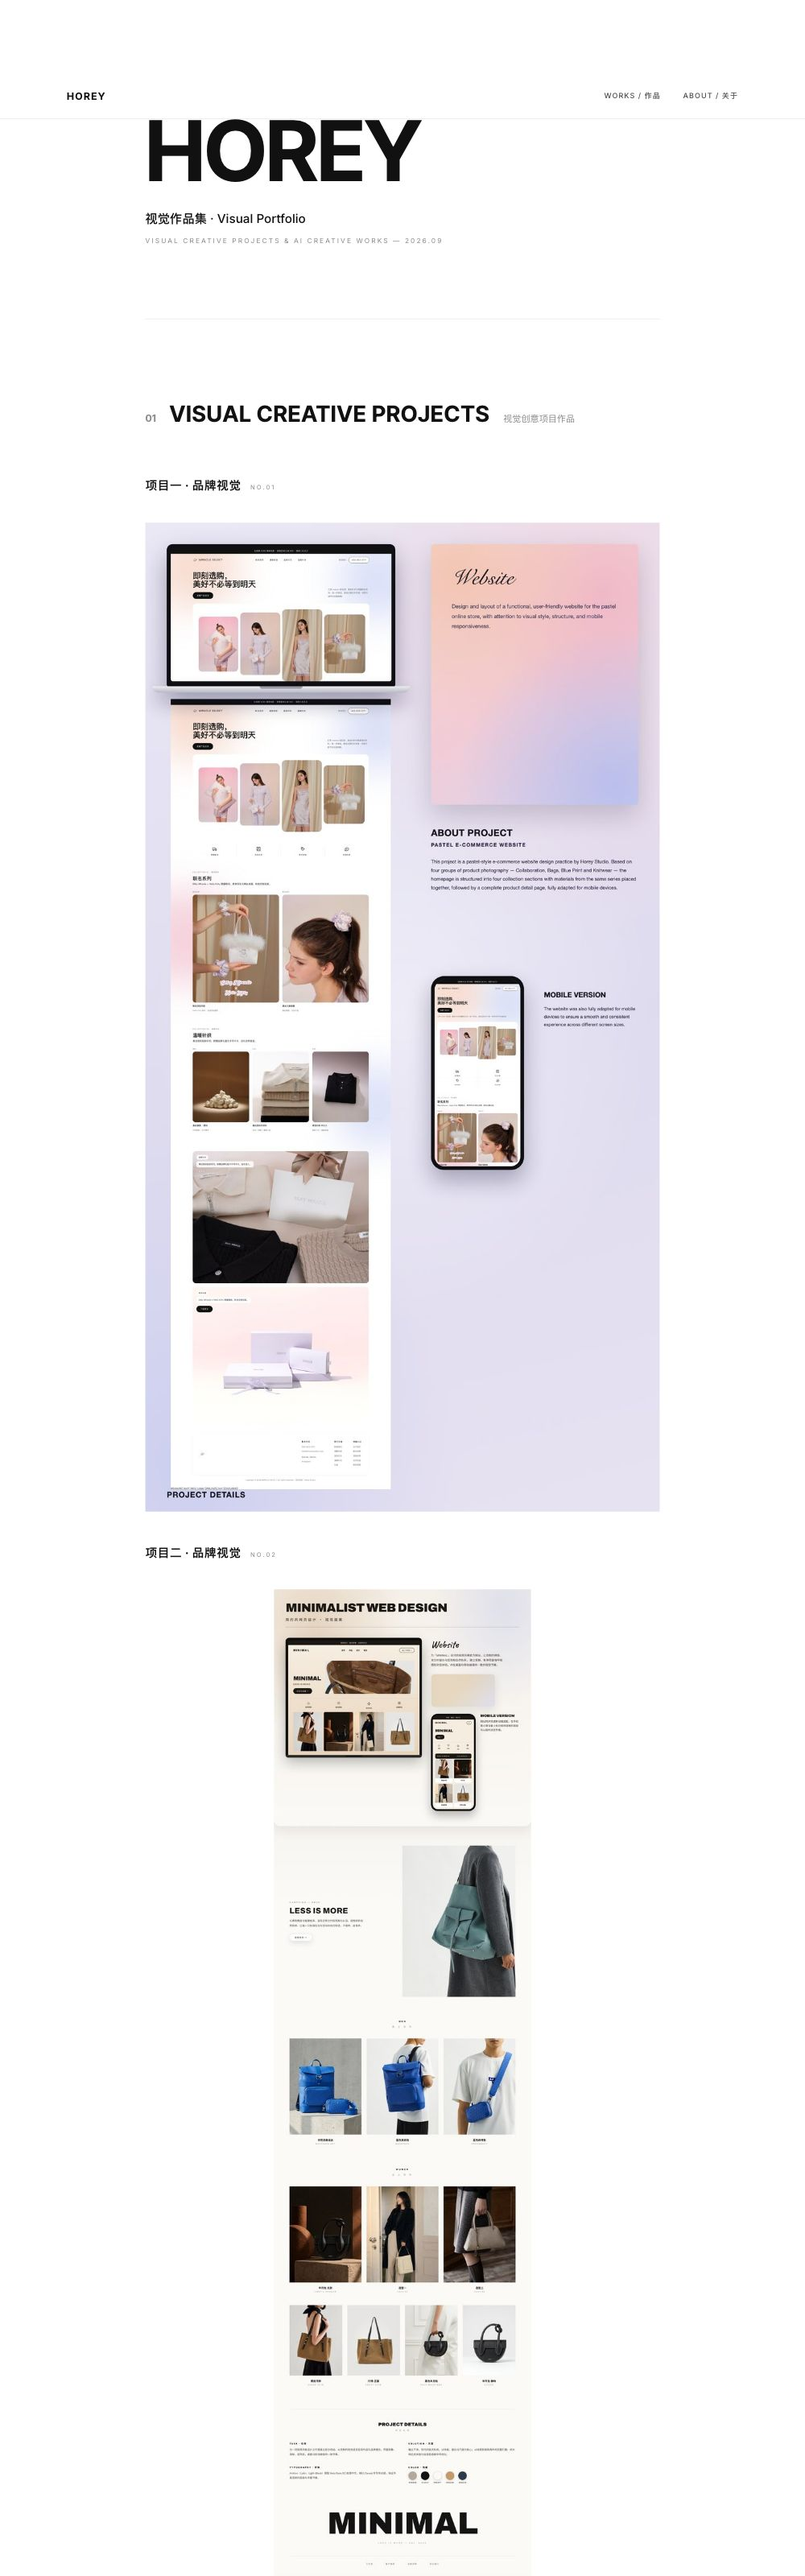
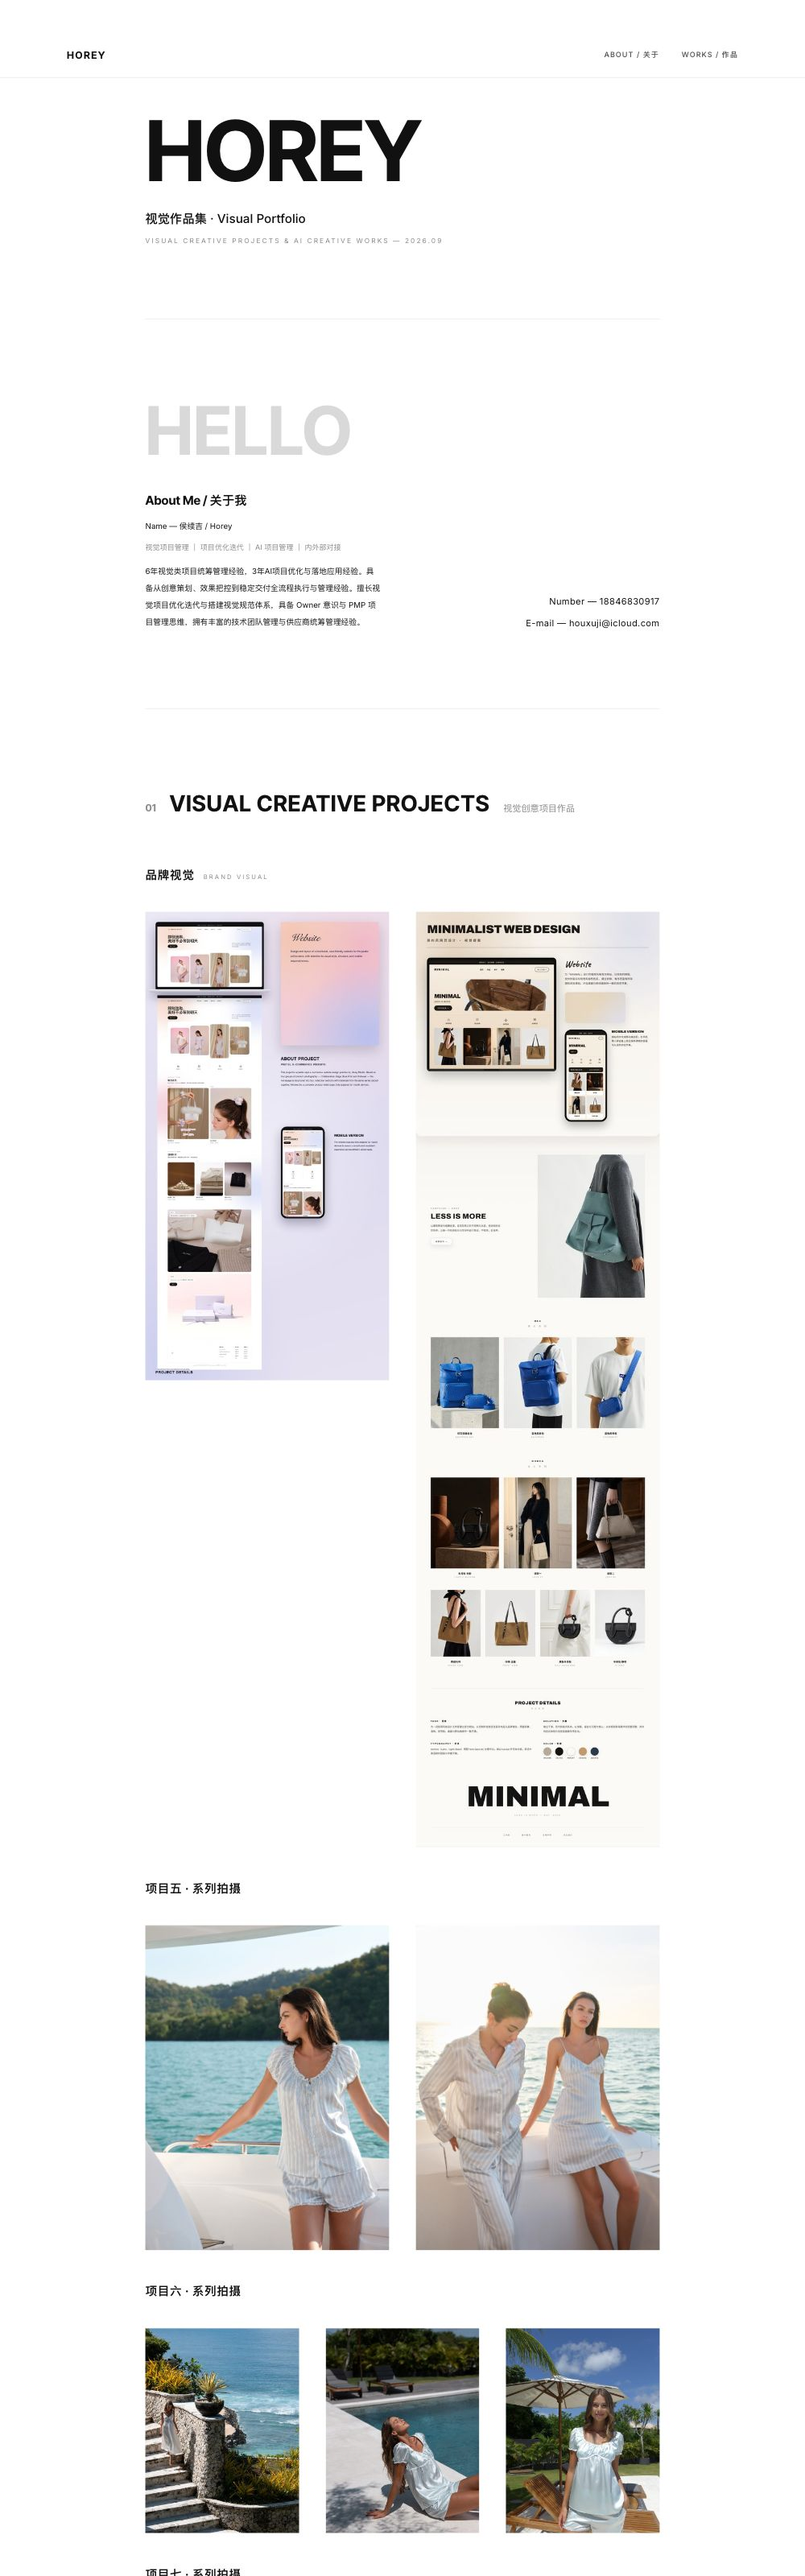
About上移/合并品牌视觉长图/去除No标签

diff --git a/index.html b/index.html
@@ -92,8 +92,8 @@ a{color:inherit;text-decoration:none}
   <div class="wrap">
     <div class="brand">HOREY</div>
     <div class="navlinks">
-      <a href="#works">WORKS / 作品</a>
       <a href="#about">ABOUT / 关于</a>
+      <a href="#works">WORKS / 作品</a>
     </div>
   </div>
 </nav>
@@ -104,6 +104,23 @@ a{color:inherit;text-decoration:none}
   <div class="hero-en">VISUAL CREATIVE PROJECTS & AI CREATIVE WORKS — 2026.09</div>
 </header>
 
+<!-- ===================== about ===================== -->
+<section class="about wrap" id="about">
+  <div class="hello">HELLO</div>
+  <div class="about-grid">
+    <div class="about-l">
+      <div class="about-t">About Me / 关于我</div>
+      <p>Name — 侯续吉 / Horey</p>
+      <div class="tags">视觉项目管理 ｜ 项目优化迭代 ｜ AI 项目管理 ｜ 内外部对接</div>
+      <p class="body">6年视觉类项目统筹管理经验，3年AI项目优化与落地应用经验。具备从创意策划、效果把控到稳定交付全流程执行与管理经验。擅长视觉项目优化迭代与搭建视觉规范体系，具备 Owner 意识与 PMP 项目管理思维，拥有丰富的技术团队管理与供应商统筹管理经验。</p>
+    </div>
+    <div class="about-r">
+      <p>Number — 18846830917</p>
+      <p>E-mail — houxuji@icloud.com</p>
+    </div>
+  </div>
+</section>
+
 <!-- ===================== 01 视觉创意项目作品 ===================== -->
 <section class="sec wrap" id="works">
   <div class="sec-hd">
@@ -113,50 +130,46 @@ a{color:inherit;text-decoration:none}
   </div>
   <div class="rows">
 
-    <div class="sub-hd"><span class="cn">项目一 · 品牌视觉</span><span class="en">No.01</span></div>
-    <div class="row r-full">
-      <div class="it"><img src="assets/img/p-1-1.jpg" alt="视觉项目 01" loading="eager"></div>
+    <div class="sub-hd"><span class="cn">品牌视觉</span><span class="en">Brand Visual</span></div>
+    <div class="row r-1-1">
+      <div class="it"><img src="assets/img/p-1-1.jpg" alt="品牌视觉 01" loading="eager"></div>
+      <div class="it"><img src="assets/img/p-2-1.jpg" alt="品牌视觉 02" loading="eager"></div>
     </div>
 
-    <div class="sub-hd"><span class="cn">项目二 · 品牌视觉</span><span class="en">No.02</span></div>
-    <div class="row r-center">
-      <div class="it"><img src="assets/img/p-2-1.jpg" alt="视觉项目 02" loading="eager"></div>
-    </div>
-
-    <div class="sub-hd"><span class="cn">项目五 · 系列拍摄</span><span class="en">No.05</span></div>
+    <div class="sub-hd"><span class="cn">项目五 · 系列拍摄</span></div>
     <div class="row r-1-1">
       <div class="it"><img src="assets/img/p-5-1.jpg" alt="视觉项目 05-1" loading="eager"></div>
       <div class="it"><img src="assets/img/p-5-2.jpg" alt="视觉项目 05-2" loading="eager"></div>
     </div>
 
-    <div class="sub-hd"><span class="cn">项目六 · 系列拍摄</span><span class="en">No.06</span></div>
+    <div class="sub-hd"><span class="cn">项目六 · 系列拍摄</span></div>
     <div class="row r-3">
       <div class="it"><img src="assets/img/p-6-1.jpg" alt="视觉项目 06-1" loading="eager"></div>
       <div class="it"><img src="assets/img/p-6-2.jpg" alt="视觉项目 06-2" loading="eager"></div>
       <div class="it"><img src="assets/img/p-6-3.jpg" alt="视觉项目 06-3" loading="eager"></div>
     </div>
 
-    <div class="sub-hd"><span class="cn">项目七 · 系列拍摄</span><span class="en">No.07</span></div>
+    <div class="sub-hd"><span class="cn">项目七 · 系列拍摄</span></div>
     <div class="row r-3">
       <div class="it"><img src="assets/img/p-7-1.jpg" alt="视觉项目 07-1" loading="eager"></div>
       <div class="it"><img src="assets/img/p-7-2.jpg" alt="视觉项目 07-2" loading="eager"></div>
       <div class="it"><img src="assets/img/p-7-3.jpg" alt="视觉项目 07-3" loading="eager"></div>
     </div>
 
-    <div class="sub-hd"><span class="cn">项目八 · 系列拍摄</span><span class="en">No.08</span></div>
+    <div class="sub-hd"><span class="cn">项目八 · 系列拍摄</span></div>
     <div class="row r-3">
       <div class="it"><img src="assets/img/p-8-1.jpg" alt="视觉项目 08-1" loading="eager"></div>
       <div class="it"><img src="assets/img/p-8-2.jpg" alt="视觉项目 08-2" loading="eager"></div>
       <div class="it"><img src="assets/img/p-8-3.jpg" alt="视觉项目 08-3" loading="eager"></div>
     </div>
 
-    <div class="sub-hd"><span class="cn">项目九 · 系列拍摄</span><span class="en">No.09</span></div>
+    <div class="sub-hd"><span class="cn">项目九 · 系列拍摄</span></div>
     <div class="row r-1-1">
       <div class="it"><img src="assets/img/p-9-1.jpg" alt="视觉项目 09-1" loading="eager"></div>
       <div class="it"><img src="assets/img/p-9-2.jpg" alt="视觉项目 09-2" loading="eager"></div>
     </div>
 
-    <div class="sub-hd"><span class="cn">项目十 · 系列拍摄</span><span class="en">No.10</span></div>
+    <div class="sub-hd"><span class="cn">项目十 · 系列拍摄</span></div>
     <div class="row r-3">
       <div class="it"><img src="assets/img/p-10-1.jpg" alt="视觉项目 10-1" loading="eager"></div>
       <div class="it"><img src="assets/img/p-10-2.jpg" alt="视觉项目 10-2" loading="eager"></div>
@@ -175,36 +188,36 @@ a{color:inherit;text-decoration:none}
   </div>
   <div class="rows">
 
-    <div class="sub-hd"><span class="cn">No.01</span><span class="en">AI Creative</span></div>
+    <div class="sub-hd"><span class="en">AI Creative</span></div>
     <div class="row r-1-1">
       <div class="it"><img src="assets/img/a-1.jpg" alt="AI 创意 01" loading="eager"></div>
       <div class="it"><img src="assets/img/a-1-1.jpg" alt="AI 创意 01-1" loading="eager"></div>
     </div>
 
-    <div class="sub-hd"><span class="cn">No.02</span><span class="en">AI Creative</span></div>
+    <div class="sub-hd"><span class="en">AI Creative</span></div>
     <div class="row r-1-1">
       <div class="it"><img src="assets/img/a-2.jpg" alt="AI 创意 02" loading="eager"></div>
       <div class="it"><img src="assets/img/a-2-new.jpg" alt="AI 创意 02-new" loading="eager"></div>
     </div>
 
-    <div class="sub-hd"><span class="cn">No.03</span><span class="en">AI Creative</span></div>
+    <div class="sub-hd"><span class="en">AI Creative</span></div>
     <div class="row r-full">
       <div class="it"><img src="assets/img/a-3.jpg" alt="AI 创意 03" loading="eager"></div>
     </div>
 
-    <div class="sub-hd"><span class="cn">No.04</span><span class="en">AI Creative</span></div>
+    <div class="sub-hd"><span class="en">AI Creative</span></div>
     <div class="row r-3">
       <div class="it"><img src="assets/img/a-4-1.jpg" alt="AI 创意 04-1" loading="eager"></div>
       <div class="it"><img src="assets/img/a-4-2.jpg" alt="AI 创意 04-2" loading="eager"></div>
       <div class="it"><img src="assets/img/a-4-3.jpg" alt="AI 创意 04-3" loading="eager"></div>
     </div>
 
-    <div class="sub-hd"><span class="cn">No.05</span><span class="en">AI Creative</span></div>
+    <div class="sub-hd"><span class="en">AI Creative</span></div>
     <div class="row r-full">
       <div class="it"><img src="assets/img/a-5.jpg" alt="AI 创意 05" loading="eager"></div>
     </div>
 
-    <div class="sub-hd"><span class="cn">No.06</span><span class="en">AI Creative</span></div>
+    <div class="sub-hd"><span class="en">AI Creative</span></div>
     <div class="row r-4">
       <div class="it"><img src="assets/img/a-6-1.jpg" alt="AI 创意 06-1" loading="eager"></div>
       <div class="it"><img src="assets/img/a-6-2.jpg" alt="AI 创意 06-2" loading="eager"></div>
@@ -212,13 +225,13 @@ a{color:inherit;text-decoration:none}
       <div class="it"><img src="assets/img/a-6-4.jpg" alt="AI 创意 06-4" loading="eager"></div>
     </div>
 
-    <div class="sub-hd"><span class="cn">No.07</span><span class="en">AI Creative</span></div>
+    <div class="sub-hd"><span class="en">AI Creative</span></div>
     <div class="row r-1-1">
       <div class="it"><img src="assets/img/a-7-1.jpg" alt="AI 创意 07-1" loading="eager"></div>
       <div class="it"><img src="assets/img/a-7-2.jpg" alt="AI 创意 07-2" loading="eager"></div>
     </div>
 
-    <div class="sub-hd"><span class="cn">No.08</span><span class="en">AI Creative</span></div>
+    <div class="sub-hd"><span class="en">AI Creative</span></div>
     <div class="row r-4">
       <div class="it"><img src="assets/img/a-8-1.jpg" alt="AI 创意 08-1" loading="eager"></div>
       <div class="it"><img src="assets/img/a-8-2.jpg" alt="AI 创意 08-2" loading="eager"></div>
@@ -226,48 +239,31 @@ a{color:inherit;text-decoration:none}
       <div class="it"><img src="assets/img/a-8-4.jpg" alt="AI 创意 08-4" loading="eager"></div>
     </div>
 
-    <div class="sub-hd"><span class="cn">No.09</span><span class="en">AI Creative</span></div>
+    <div class="sub-hd"><span class="en">AI Creative</span></div>
     <div class="row r-3">
       <div class="it"><img src="assets/img/a-9-1.jpg" alt="AI 创意 09-1" loading="eager"></div>
       <div class="it"><img src="assets/img/a-9-2.jpg" alt="AI 创意 09-2" loading="eager"></div>
       <div class="it"><img src="assets/img/a-9-3.jpg" alt="AI 创意 09-3" loading="eager"></div>
     </div>
 
-    <div class="sub-hd"><span class="cn">No.10</span><span class="en">AI Creative</span></div>
+    <div class="sub-hd"><span class="en">AI Creative</span></div>
     <div class="row r-1-1">
       <div class="it"><img src="assets/img/a-10-1.jpg" alt="AI 创意 10-1" loading="eager"></div>
       <div class="it"><img src="assets/img/a-10-2.jpg" alt="AI 创意 10-2" loading="eager"></div>
     </div>
 
-    <div class="sub-hd"><span class="cn">No.11</span><span class="en">AI Creative</span></div>
+    <div class="sub-hd"><span class="en">AI Creative</span></div>
     <div class="row r-1-1">
       <div class="it"><img src="assets/img/a-11-1.jpg" alt="AI 创意 11-1" loading="eager"></div>
       <div class="it"><img src="assets/img/a-11-2.jpg" alt="AI 创意 11-2" loading="eager"></div>
     </div>
 
-    <div class="sub-hd"><span class="cn">No.12</span><span class="en">AI Creative</span></div>
+    <div class="sub-hd"><span class="en">AI Creative</span></div>
     <div class="row r-1-1">
       <div class="it"><img src="assets/img/a-12-1.jpg" alt="AI 创意 12-1" loading="eager"></div>
       <div class="it"><img src="assets/img/a-12-2.jpg" alt="AI 创意 12-2" loading="eager"></div>
     </div>
 
-  </div>
-</section>
-
-<!-- ===================== about ===================== -->
-<section class="about wrap" id="about">
-  <div class="hello">HELLO</div>
-  <div class="about-grid">
-    <div class="about-l">
-      <div class="about-t">About Me / 关于我</div>
-      <p>Name — 侯续吉 / Horey</p>
-      <div class="tags">视觉项目管理 ｜ 项目优化迭代 ｜ AI 项目管理 ｜ 内外部对接</div>
-      <p class="body">6年视觉类项目统筹管理经验，3年AI项目优化与落地应用经验。具备从创意策划、效果把控到稳定交付全流程执行与管理经验。擅长视觉项目优化迭代与搭建视觉规范体系，具备 Owner 意识与 PMP 项目管理思维，拥有丰富的技术团队管理与供应商统筹管理经验。</p>
-    </div>
-    <div class="about-r">
-      <p>Number — 18846830917</p>
-      <p>E-mail — houxuji@icloud.com</p>
-    </div>
   </div>
 </section>
 
